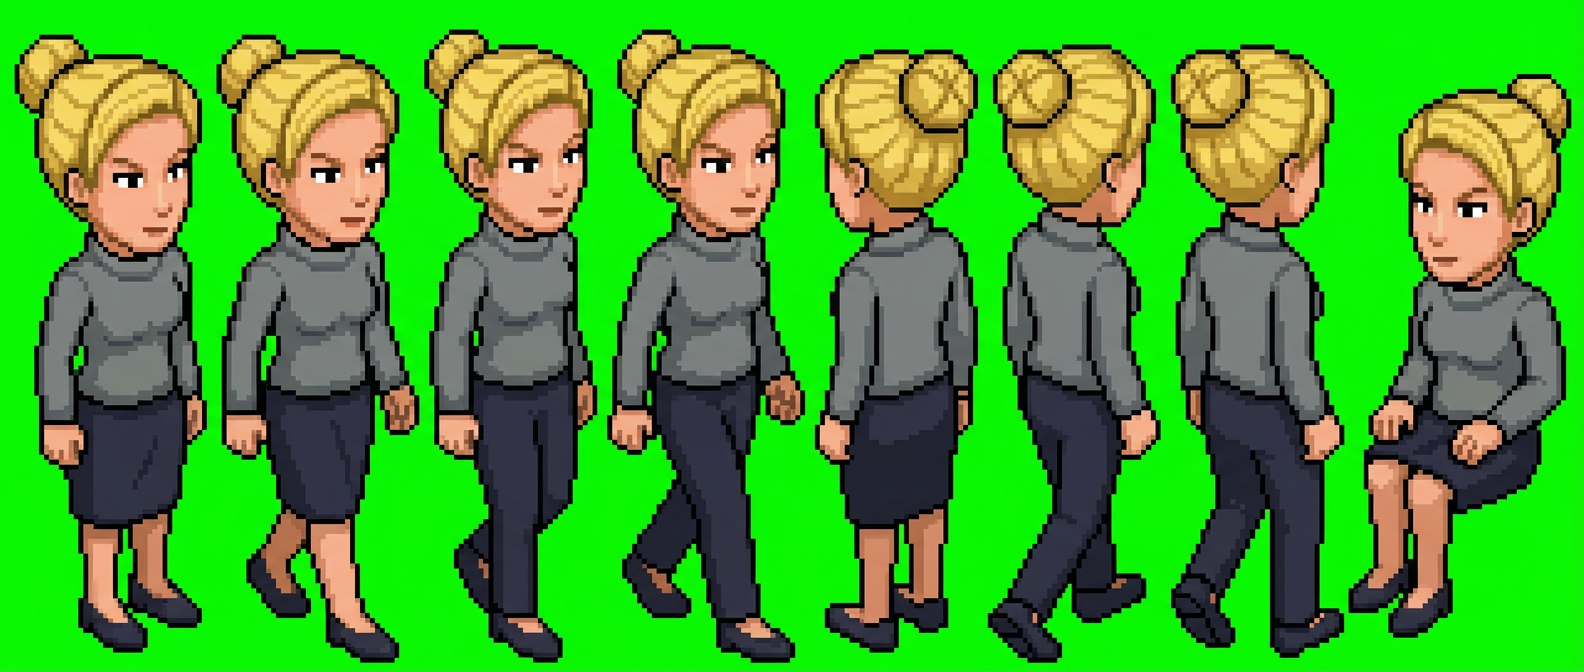
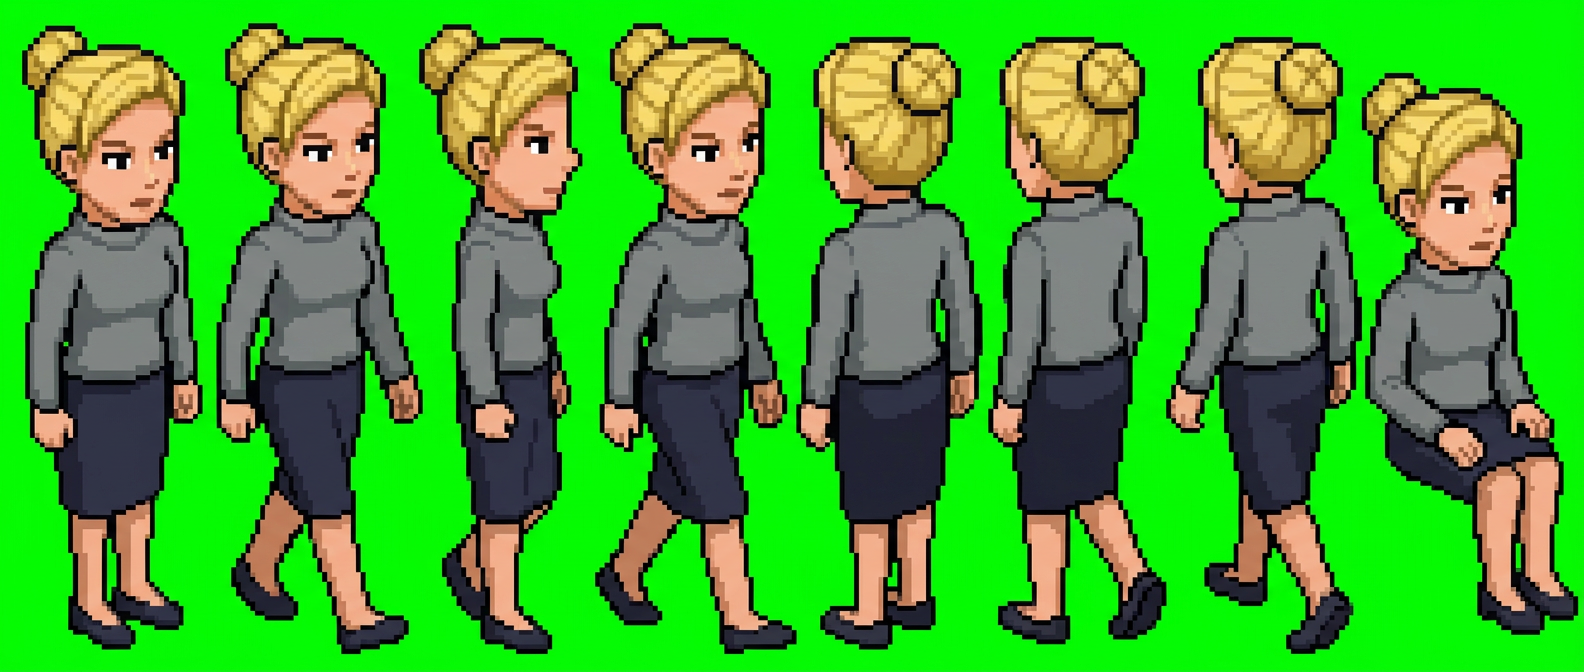
Fix isometric walk cycles: drop profile passing frames, regenerate drifting sheets
A review of all 43 iso walk cycles found the generated passing pose was
drawn in side profile on most sheets, so walks flickered between
three-quarter and profile every other frame, plus per-character faults
(idle facing the camera while walking in profile, back-walk twist,
Angela's skirt turning into trousers, shuffling strides, height pops).

- Both walks now run contact, idle, contact, idle; the generated
  passing pose is no longer used.
- Build: standing frames more than 3% off the median height are scaled
  back to it, and seated figures are capped at 0.87 of standing height.
- Prompt: explicit angle, stride and outfit consistency rules, plus
  per-character notes (Angela's reference sheet itself shows trousers
  in its side views; the Captain's likeness drifted).
- --replace mode: always make a new attempt, keeping the current sheet
  unless the new one validates.
- Regenerated and kept 14 sheets that compared better (Wendy, Monica,
  Lily, Jim, Ross, Ted, Gilfoyle, Barney, Oscar, Angela, Jian-Yang,
  the Captain, Ryan, Ranjit); attempts that came out worse were
  discarded.
- Spend cap raised to $18.50 with the owner's approval; ledger $17.12.

diff --git a/scripts/sprites/iso_characters.py b/scripts/sprites/iso_characters.py
@@ -15,7 +15,8 @@ the likeness reference; accepted sheets go to art/source/characters/iso/<id>.png
 src/data/sprites/generated/isoCharacterAtlas.ts.
 
 Sheet order: 1 front idle, 2-4 front walk (contact, passing, contact), 5 back idle,
-6-7 back walk (contact, contact), 8 front sitting. "Front" is turned 45 degrees to the viewer's
+6-7 back walk (contact, contact), 8 front sitting. In game both walks run contact, idle, contact,
+idle (see COLUMNS). "Front" is turned 45 degrees to the viewer's
 right (screen south-east, world +x); "back" walks away to the upper right (north-east, world -y).
 The game mirrors both for the other two diagonals.
 """
@@ -55,7 +56,11 @@ TS_OUT = ROOT / "src" / "data" / "sprites" / "generated" / "isoCharacterAtlas.ts
 BASE_ATLAS = ROOT / "public" / "sprites" / "characters"
 
 POSES = ["front_idle", "front_a", "front_pass", "front_b", "back_idle", "back_a", "back_b", "front_sit"]
-COLUMNS = ["front_idle", "front_a", "front_pass", "front_b", "front_pass",
+SEATED_MAX = 0.87  # tallest a seated figure may be, relative to the standing frames
+# Both walks pass through the idle frame between contacts. The generated passing pose is not used:
+# the model draws it in side profile far more often than any other figure, which made the cycle
+# flicker between three-quarter and profile on every other frame.
+COLUMNS = ["front_idle", "front_a", "front_idle", "front_b", "front_idle",
            "back_idle", "back_a", "back_idle", "back_b", "back_idle", "front_sit"]
 
 PROMPT = """Create a pixel art character sprite sheet of {name} from the sitcom {show}, matching EXACTLY the character in the first reference image (same face, hair, skin tone, outfit, proportions and colours) and the same art style: 16-bit pixel art, chunky pixels, clean dark 1-pixel outlines, flat shading, no anti-aliasing, no blur.
@@ -72,10 +77,20 @@ Layout: ONE single horizontal row of 8 full-body figures, evenly spaced, clear e
 7. The same three-quarter back view, walking away: left leg forward.
 8. Three-quarter front view turned to the right, SITTING on an invisible seat: thighs horizontal, lower legs hanging straight down, hands resting on the lap.
 Figures 1 to 7 are the same height with their feet on one ground line. No chair, text, labels, grid lines, borders, shadows or floor.
+
+ANGLE CONSISTENCY (most important): figures 1, 2, 3, 4 and 8 are all turned to EXACTLY the same three-quarter angle - the same amount of face visible, both eyes visible, the nose pointing to the lower right. None of them is ever a side profile and none faces the viewer straight on; only the arms and legs change between them. Likewise figures 5, 6 and 7 are all turned to exactly the same three-quarter back angle - never straight from behind, never in profile.
+STRIDE: in figures 2, 4, 6 and 7 the legs are clearly apart in a long walking stride, the opposite leg forward in 2 than in 4 (and in 6 than in 7), with the arms swinging opposite to the legs.
+OUTFIT: every figure wears exactly the same clothes as the first reference image - a skirt stays a skirt, trousers stay trousers.
 Background: flat solid pure chroma green #00FF00 everywhere.{green_note}{body_note}"""
 
 HEAVY_NOTE = """
 BODY TYPE: {name} is heavy-set - overweight, with a round belly, wide hips, thick arms and legs and a full, round face, exactly as in the first reference image. Draw that build in every pose; the grey mannequins in the second reference image show the heavy build to follow (the belly sticks out in front). Keep all EIGHT figures in ONE row; never add a second row."""
+
+# Corrections for characters whose generations drift, or whose reference sheet is itself wrong.
+CHARACTER_NOTES = {
+    "angela": "\nOUTFIT NOTE: Angela wears a knee-length dark navy pencil skirt with dark flats in EVERY figure, including all walking and back views. The side views in the first reference image wrongly show trousers - ignore that and draw the skirt. When she walks, the skirt stays a straight skirt ending at the knee and her bare lower legs and flats step out below its hem; there are never trouser legs.",
+    "the_captain": "\nLIKENESS NOTE: the Captain is an older man with swept-back silver-grey hair, a stern lined face, a dark navy double-breasted captain's blazer with gold sleeve stripes and white trousers, exactly as in the first reference image. Keep that face, hair colour and age in every figure.",
+}
 
 SHOW_NAMES = {"the_office": "The Office", "friends": "Friends", "silicon_valley": "Silicon Valley", "himym": "How I Met Your Mother"}
 GREEN_CLOTHES = {"meredith", "jianyang"}
@@ -183,10 +198,10 @@ def validate(path: Path) -> str | None:
 
 
 def generate(char_id: str, name: str, show: str, max_spend: float, heavy: bool = False,
-             model: str = DEFAULT_MODEL, compare: str | None = None) -> str:
+             model: str = DEFAULT_MODEL, compare: str | None = None, replace: bool = False) -> str:
     SRC_DIR.mkdir(parents=True, exist_ok=True)
     COMPARE_DIR.mkdir(parents=True, exist_ok=True)
-    if compare is None:
+    if compare is None and not replace:
         for previous in sorted(WORK_DIR.glob(f"{char_id}_try*.png")):
             if validate(previous) is None:
                 (SRC_DIR / f"{char_id}.png").write_bytes(previous.read_bytes())
@@ -200,7 +215,7 @@ def generate(char_id: str, name: str, show: str, max_spend: float, heavy: bool =
         name=name,
         show=show,
         green_note=" The character wears green clothing: keep those greens clearly darker/bluer than the background." if char_id in GREEN_CLOTHES else " Do not use any green in the character.",
-        body_note=HEAVY_NOTE.format(name=name) if heavy else "",
+        body_note=(HEAVY_NOTE.format(name=name) if heavy else "") + CHARACTER_NOTES.get(char_id, ""),
     )
     prompt_file = WORK_DIR / f"{char_id}_prompt.txt"
     prompt_file.write_text(prompt, encoding="utf-8")
@@ -257,8 +272,20 @@ def build(preview: str | None) -> None:
             print(f"  {char_id}: {len(figs)} figures, skipped")
             continue
         target = base_height(char_id, cfg)
-        scale = target / float(np.median([f.height for f in figs[:7]]))
-        small = [crop_to_content(downsample(f.rgba, scale)) for f in figs]
+        median = float(np.median([f.height for f in figs[:7]]))
+        scale = target / median
+        def frame_scale(i: int, f) -> float:
+            # A standing frame drawn more than ~3% off the others' height is a drawing slip, not a
+            # bob; scaled as-is it makes the character pop up or sink on that step, so bring it to
+            # the median height. A seated figure is never taller than ~0.87 of standing; one drawn
+            # taller would look oversized in its chair.
+            if i < 7 and abs(f.height - median) > 0.03 * median:
+                return target / f.height
+            if i == 7 and f.height > SEATED_MAX * median:
+                return target * SEATED_MAX / f.height
+            return scale
+
+        small = [crop_to_content(downsample(f.rgba, frame_scale(i, f))) for i, f in enumerate(figs)]
         palette = build_palette(small)
         frames = dict(zip(POSES, [apply_palette(f, palette) for f in small]))
         cells = []
@@ -311,10 +338,12 @@ def main() -> None:
     sub.add_parser("layout")
     g = sub.add_parser("generate")
     g.add_argument("--only", required=True, help="comma-separated ids, or 'missing' for every character without a sheet")
-    g.add_argument("--max-spend", type=float, default=17.0)
+    g.add_argument("--max-spend", type=float, default=18.5)
     g.add_argument("--model", default=DEFAULT_MODEL)
     g.add_argument("--compare", help="write candidates to _work/compare/<id>_<TAG>.png without installing them")
     g.add_argument("--workers", type=int, default=1)
+    g.add_argument("--replace", action="store_true",
+                   help="always make a new attempt; the current sheet is only overwritten if the new one validates")
     b = sub.add_parser("build")
     b.add_argument("--preview")
     args = parser.parse_args()
@@ -329,7 +358,8 @@ def main() -> None:
         def job(cid: str) -> tuple[str, str]:
             info = cast.get(cid, {})
             return cid, generate(cid, info.get("name", cid), SHOW_NAMES.get(show_of.get(cid, ""), "a sitcom"), args.max_spend,
-                                 heavy=info.get("bodyType") == "large", model=args.model, compare=args.compare)
+                                 heavy=info.get("bodyType") == "large", model=args.model, compare=args.compare,
+                                 replace=args.replace)
 
         print(f"{len(ids)} characters; spent so far ${spent():.2f}", flush=True)
         with ThreadPoolExecutor(max_workers=max(1, args.workers)) as pool:

diff --git a/scripts/sprites/generate_sheet.py b/scripts/sprites/generate_sheet.py
@@ -21,7 +21,7 @@ import requests
 
 ROOT = Path(__file__).resolve().parents[2]
 LEDGER = ROOT / "art" / "source" / "generation_ledger.jsonl"
-BUDGET_USD = 17.0  # raised by $10 with the owner's approval for the isometric character views
+BUDGET_USD = 18.5  # raised to $17 then $18.50 with the owner's approval for the isometric character views
 ESTIMATE_PER_CALL_USD = 0.35  # conservative ceiling used only for the pre-flight check
 
 
